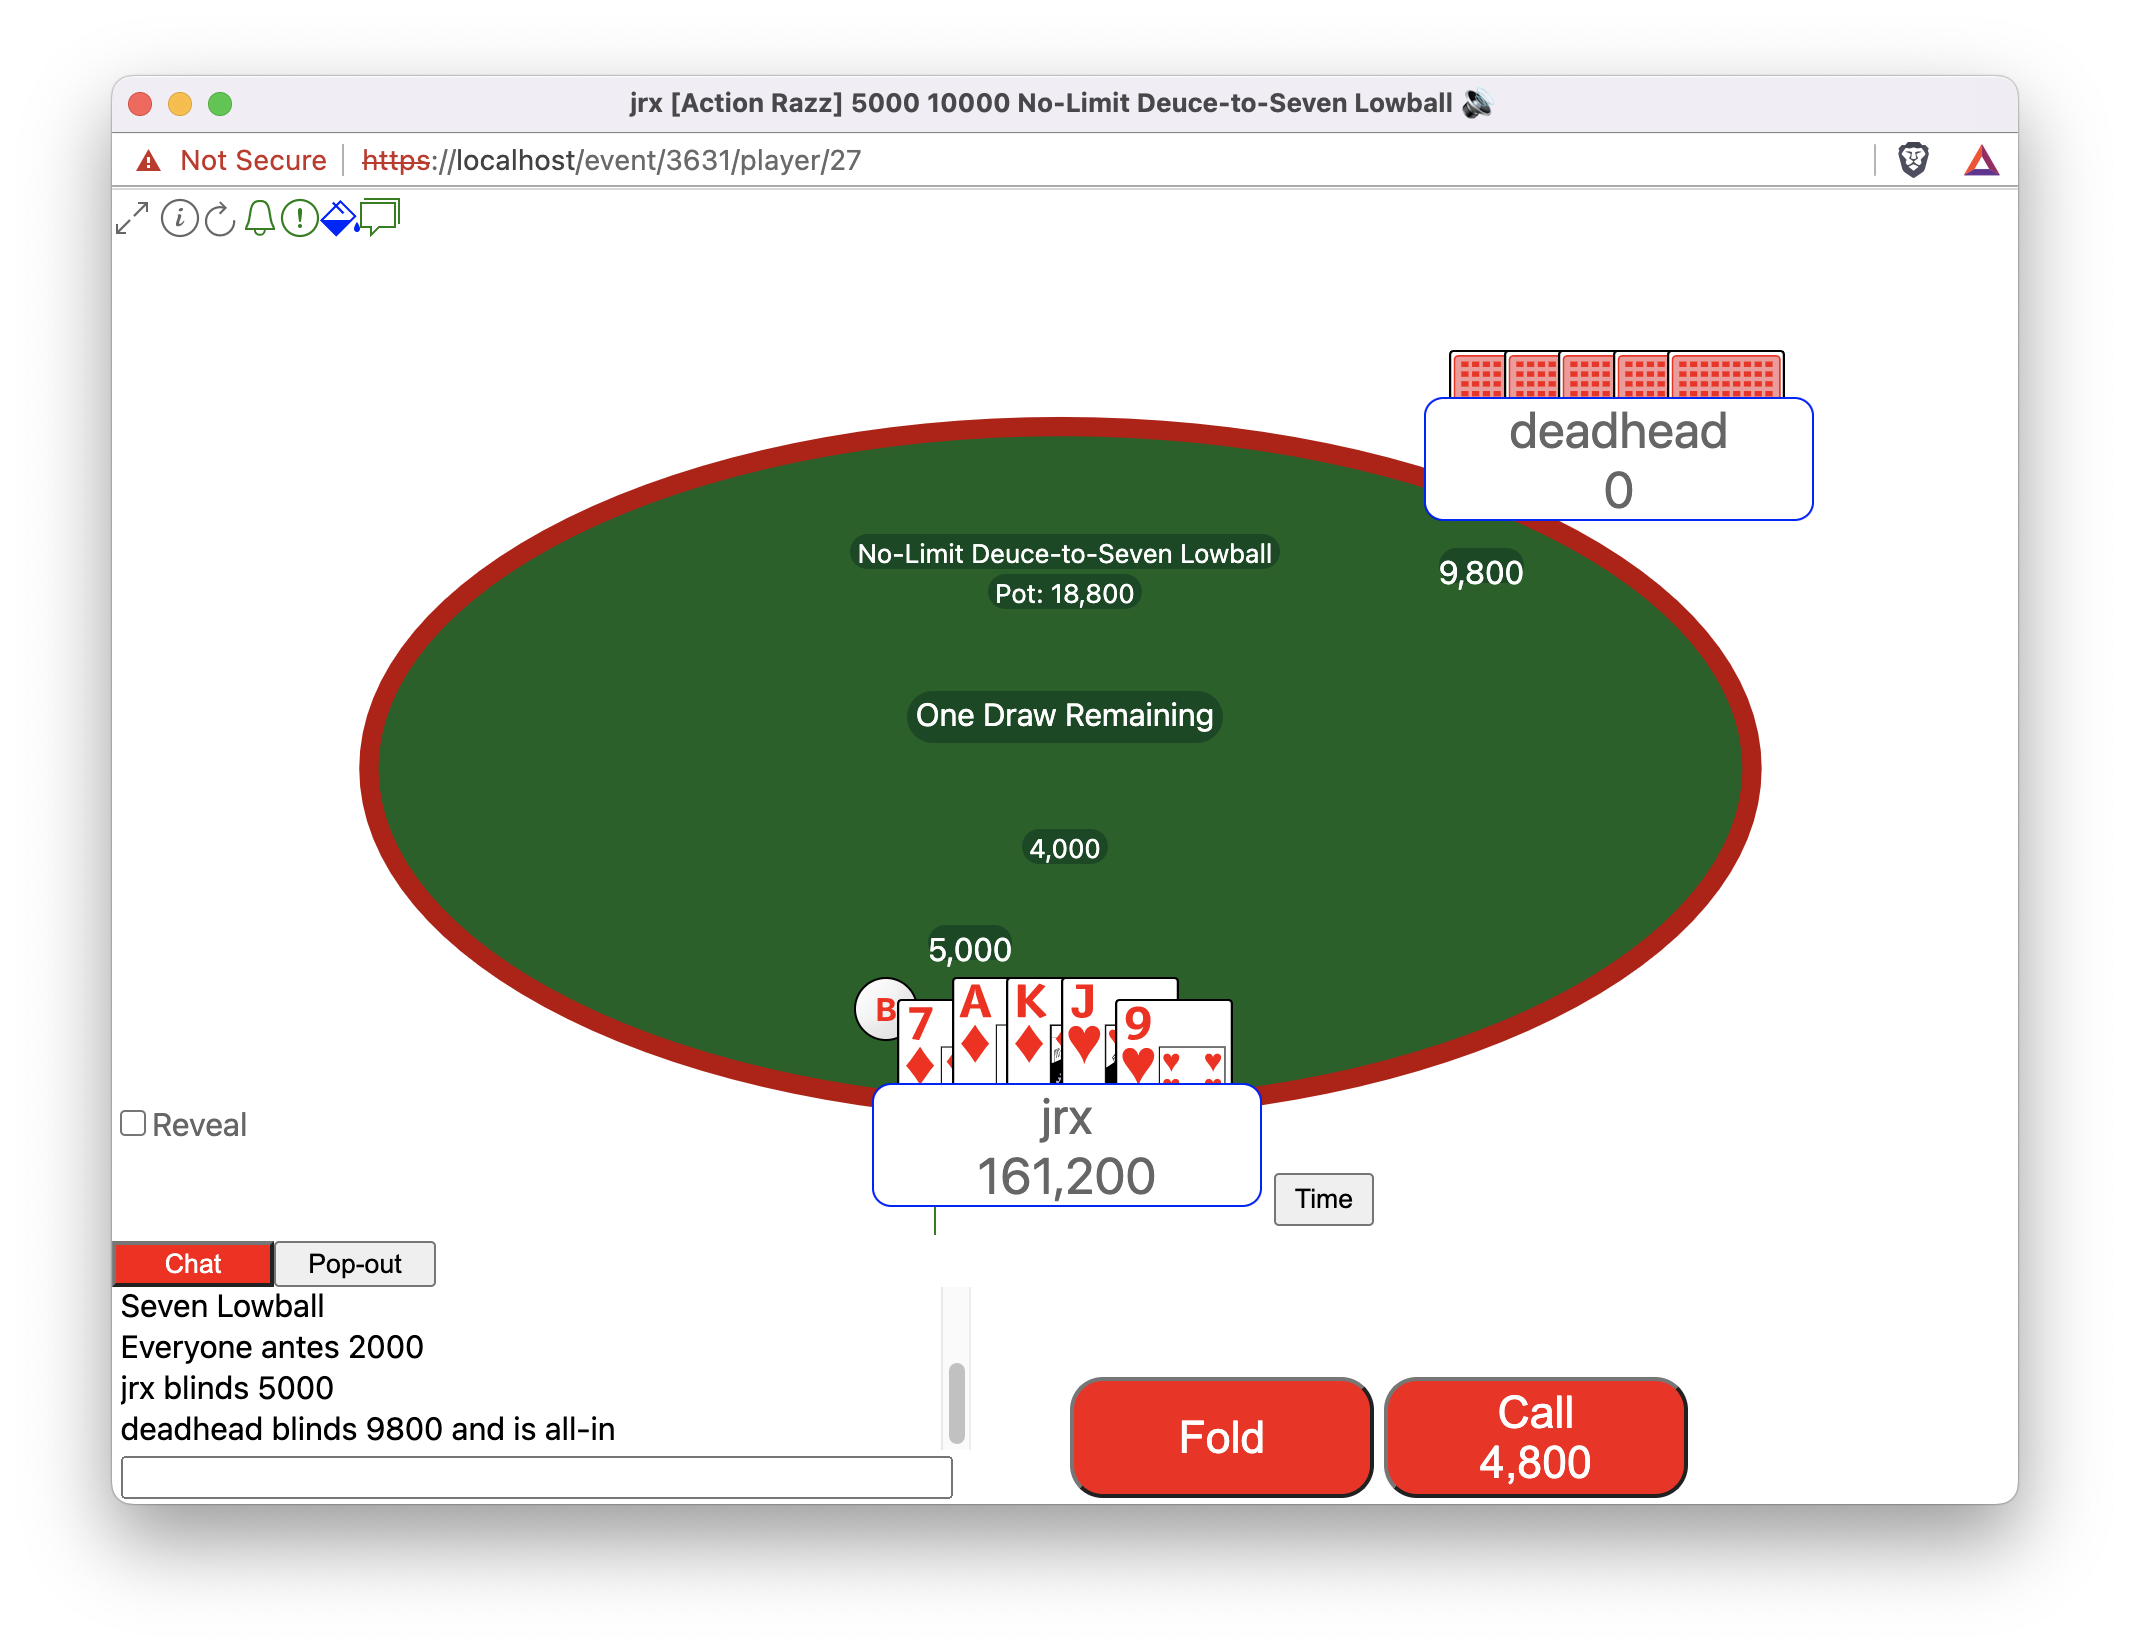
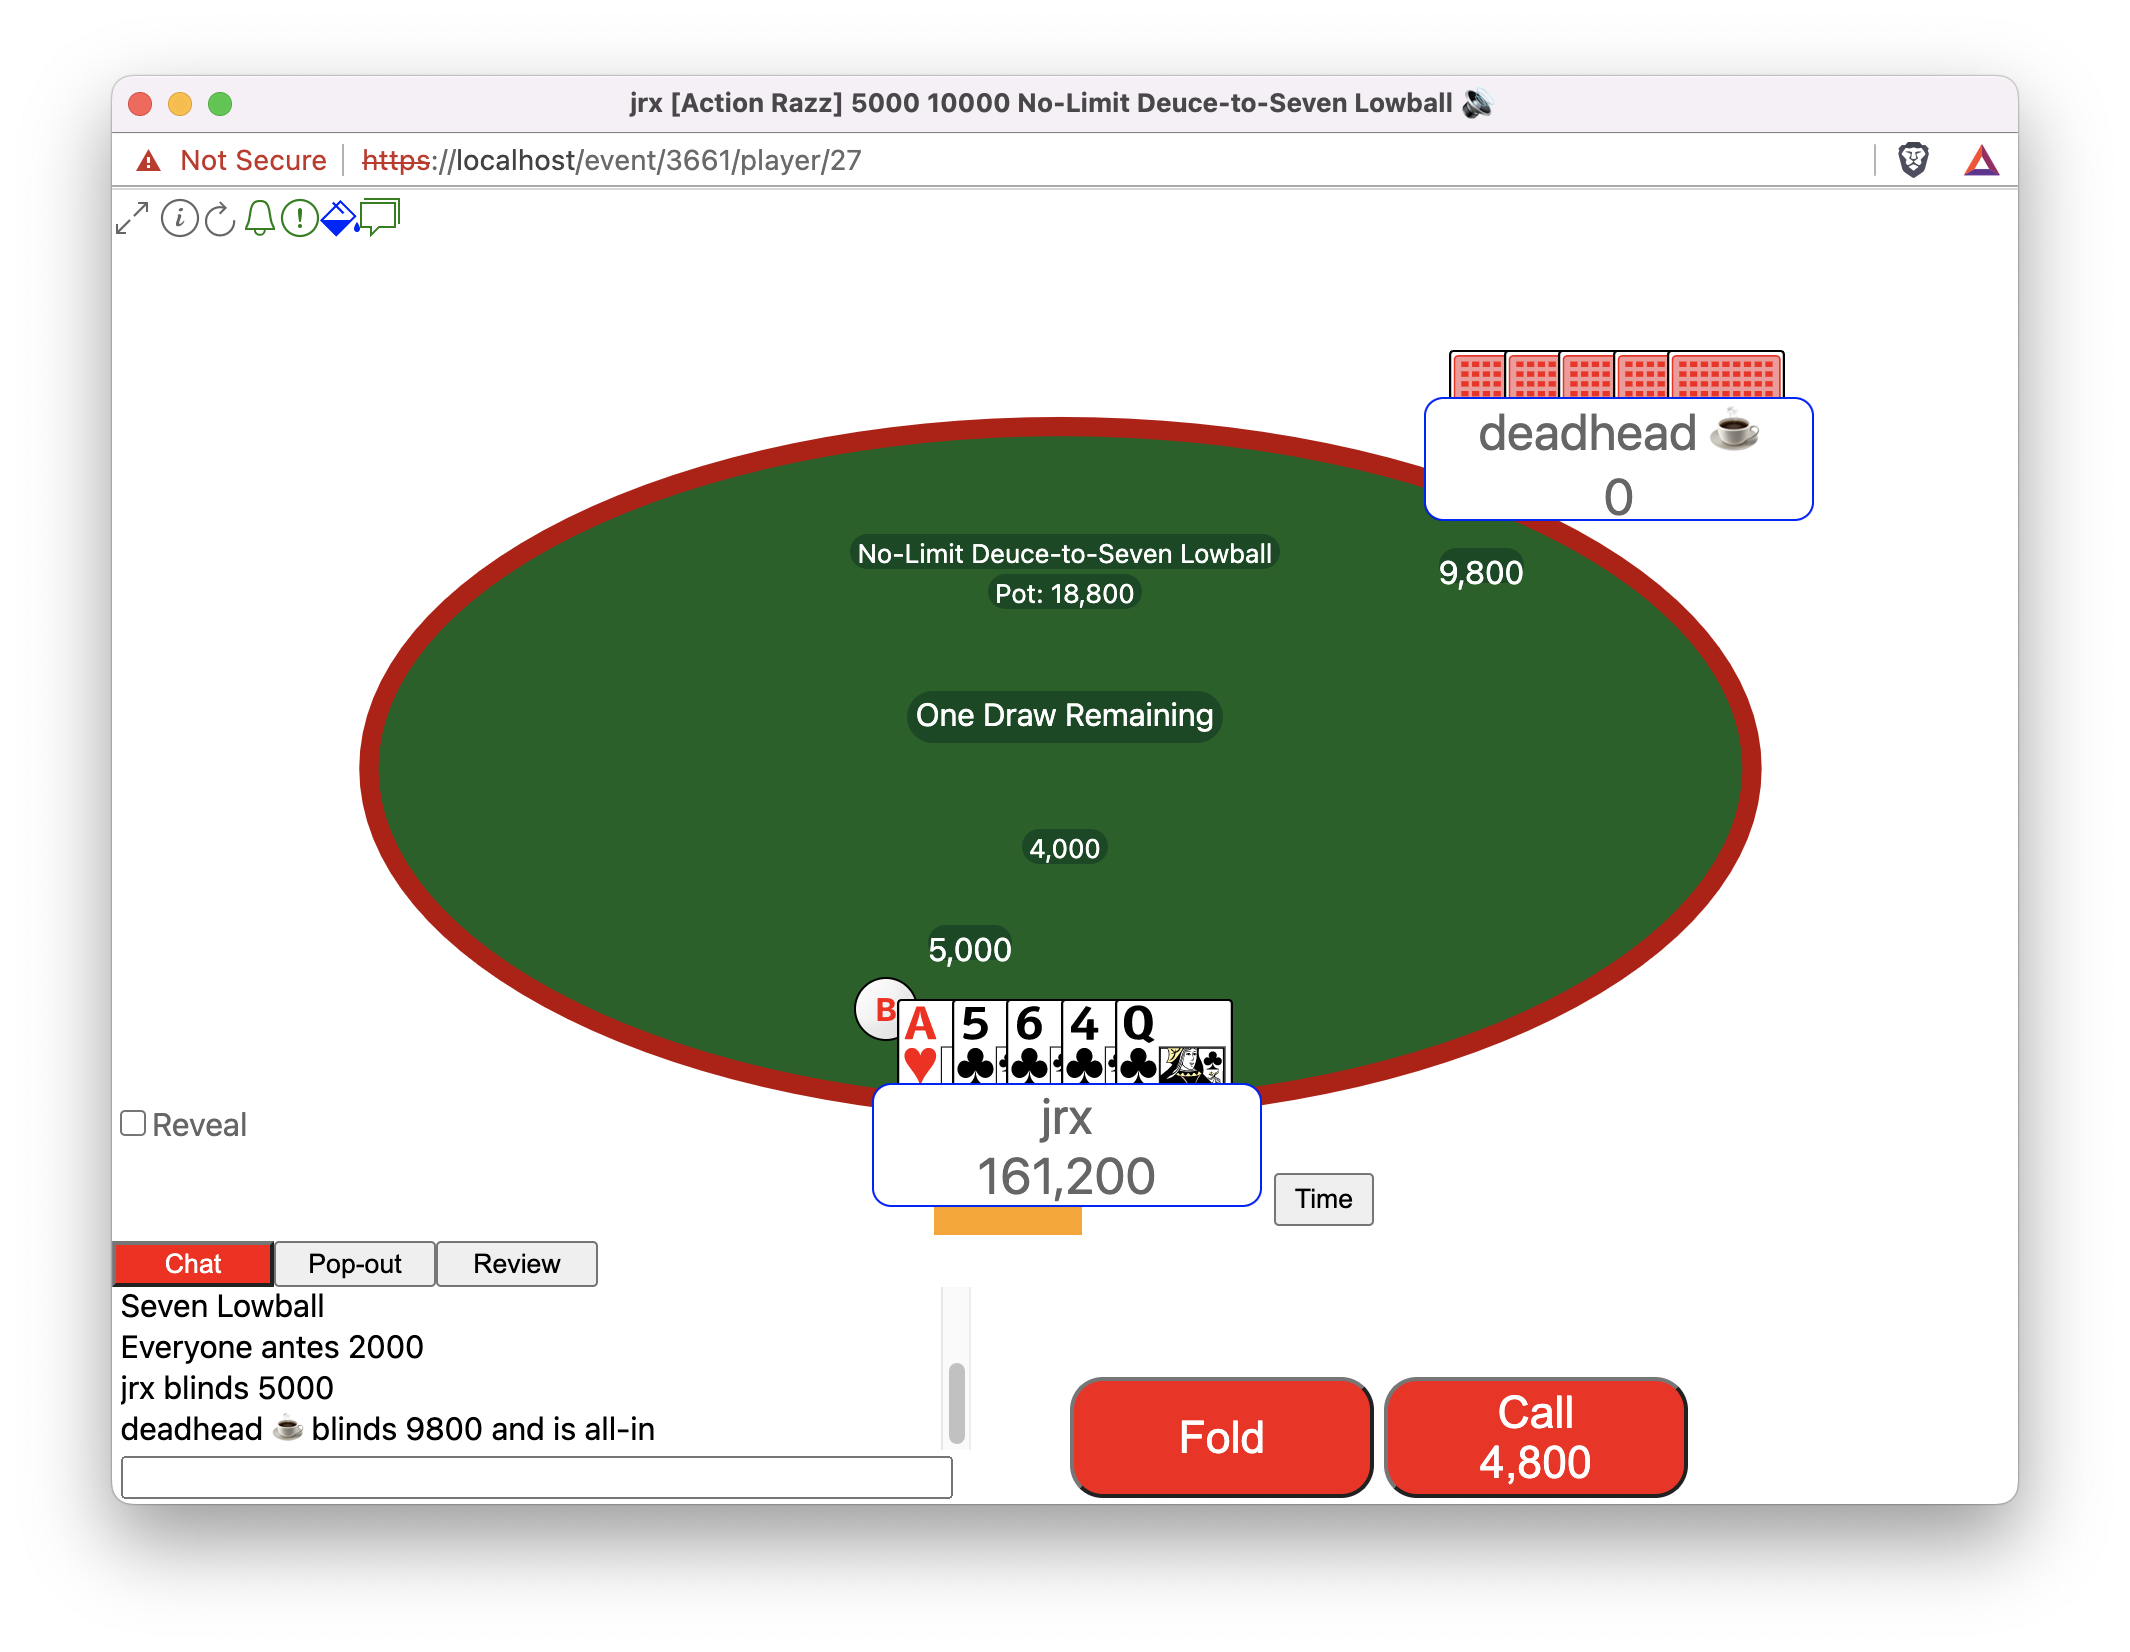
[Feat] documents review button. Closes #937.

diff --git a/src/tables/review-button.md b/src/tables/review-button.md
@@ -1,0 +1,18 @@
+# Review Button
+
+Clicking the review button brings up a pane in the lower left corner of the
+table window. That pane shows the ending of the previous hand: players' hole
+cards (unless they mucked) and the hand they made.
+
+The winning "high"[^1] hands are in green (and bold, so color-blind
+people can recognize them).  The winning "low" hands are in blue (and
+italics). If you mouse over a high or low label that has won chips from
+a pot, the amount won is displayed as a "tooltip". If there are multiple
+pots (due to one or more players being all-in), the amounts won from each
+pot are shown.
+
+[^1]: Some games split the pot with two different high hands, e.g., Dramaha,
+where one high hand is made using the board and the other high hand is made
+using solely the player's hole cards. In games like these, one of the two
+high hands gets the extra chip if there is one. It's the high hand that
+gets the extra chip that will be in green and bold.

diff --git a/src/tables.md b/src/tables.md
@@ -15,5 +15,5 @@ the things that may not be self-explanatory.
 
 [^1]: Currently, there are also two textual representations of a table,
 but this manual ignores them because they are likely to go away after
-graphical interface becomes more attractive to the current text view
+the graphical interface becomes more attractive to the current text view
 players.

diff --git a/src/SUMMARY.md b/src/SUMMARY.md
@@ -15,6 +15,7 @@
   - [Advanced Checkboxes](./tables/advanced.md)
   - [Immediate Buttons](./tables/immediate.md)
   - [Shareable URLs](./tables/shareable-urls.md)
+  - [Review Button](./tables/review-button.md)
 - [Fun Money](./fun_money.md)
 - [Tournaments](./tournaments.md)
   - [Structures](./tournaments/structures.md)
